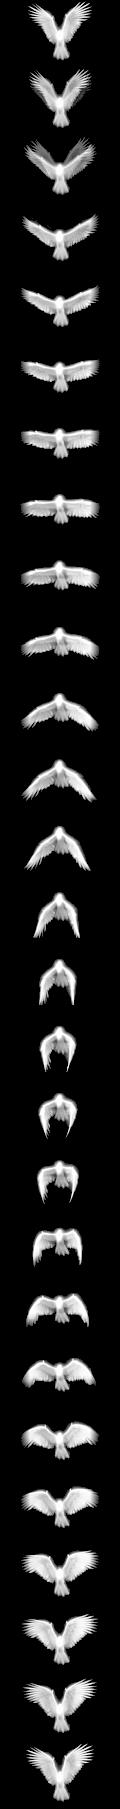
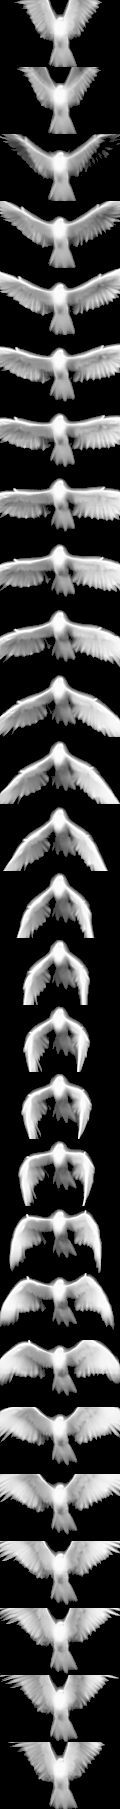
Make the splash flight loop truly full screen
Crop the source tightly around the bird (about 2.4x larger than before)
so the wings and tail run off the screen edges, and draw the dot grid to
cover the whole screen instead of fitting inside it, so no black bars
remain on the 1024x600 panel. The edge fade for the source video's sides
is no longer needed.

Claude-Session: https://claude.ai/code/session_01AT2kUcz7Ed2coj7pjKfA3A

diff --git a/src/ui/flight.rs b/src/ui/flight.rs
@@ -57,10 +57,13 @@ impl FlightAnimation {
         self.frames as f32 / FPS
     }
 
-    /// Draw the frame for `elapsed` seconds, centered and fitted into `rect`
+    /// Draw the frame for `elapsed` seconds, centered and covering `rect`
+    /// (the grid overflows and is clipped on the longer side, so the dots
+    /// reach every edge of the screen)
     pub fn paint(&self, painter: &egui::Painter, rect: egui::Rect, elapsed: f32, color: egui::Color32) {
         let frame = (elapsed * FPS) as usize % self.frames;
-        let cell = (rect.width() / COLS as f32).min(rect.height() / ROWS as f32);
+        let cell = (rect.width() / COLS as f32).max(rect.height() / ROWS as f32);
+        let painter = painter.with_clip_rect(rect);
         let origin = rect.center() - egui::vec2(cell * COLS as f32, cell * ROWS as f32) / 2.0;
         let cells = &self.radii[frame * COLS * ROWS..(frame + 1) * COLS * ROWS];
         for (i, &r) in cells.iter().enumerate() {
